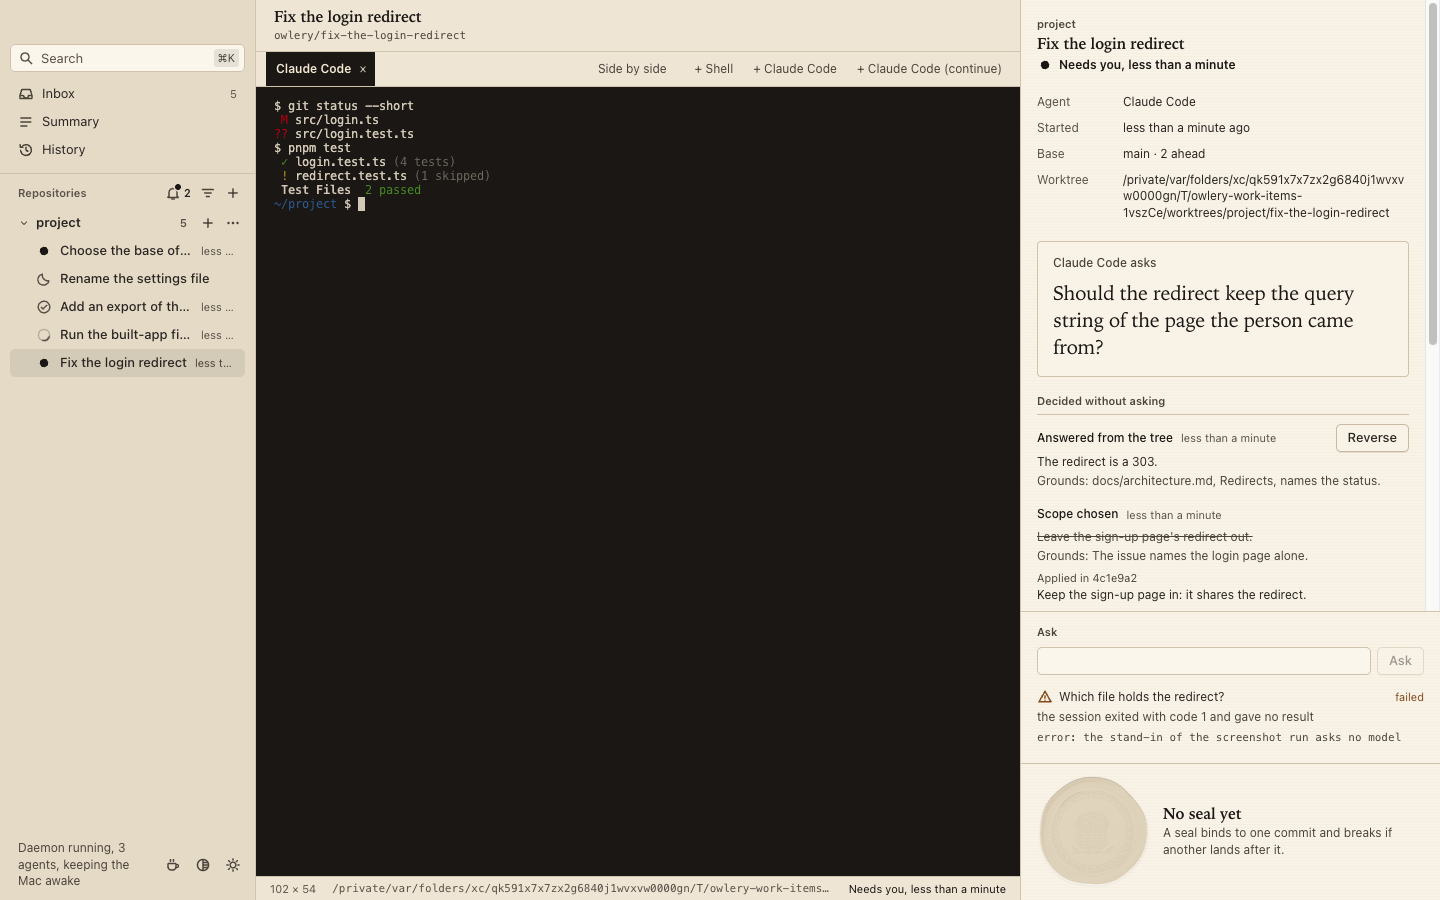
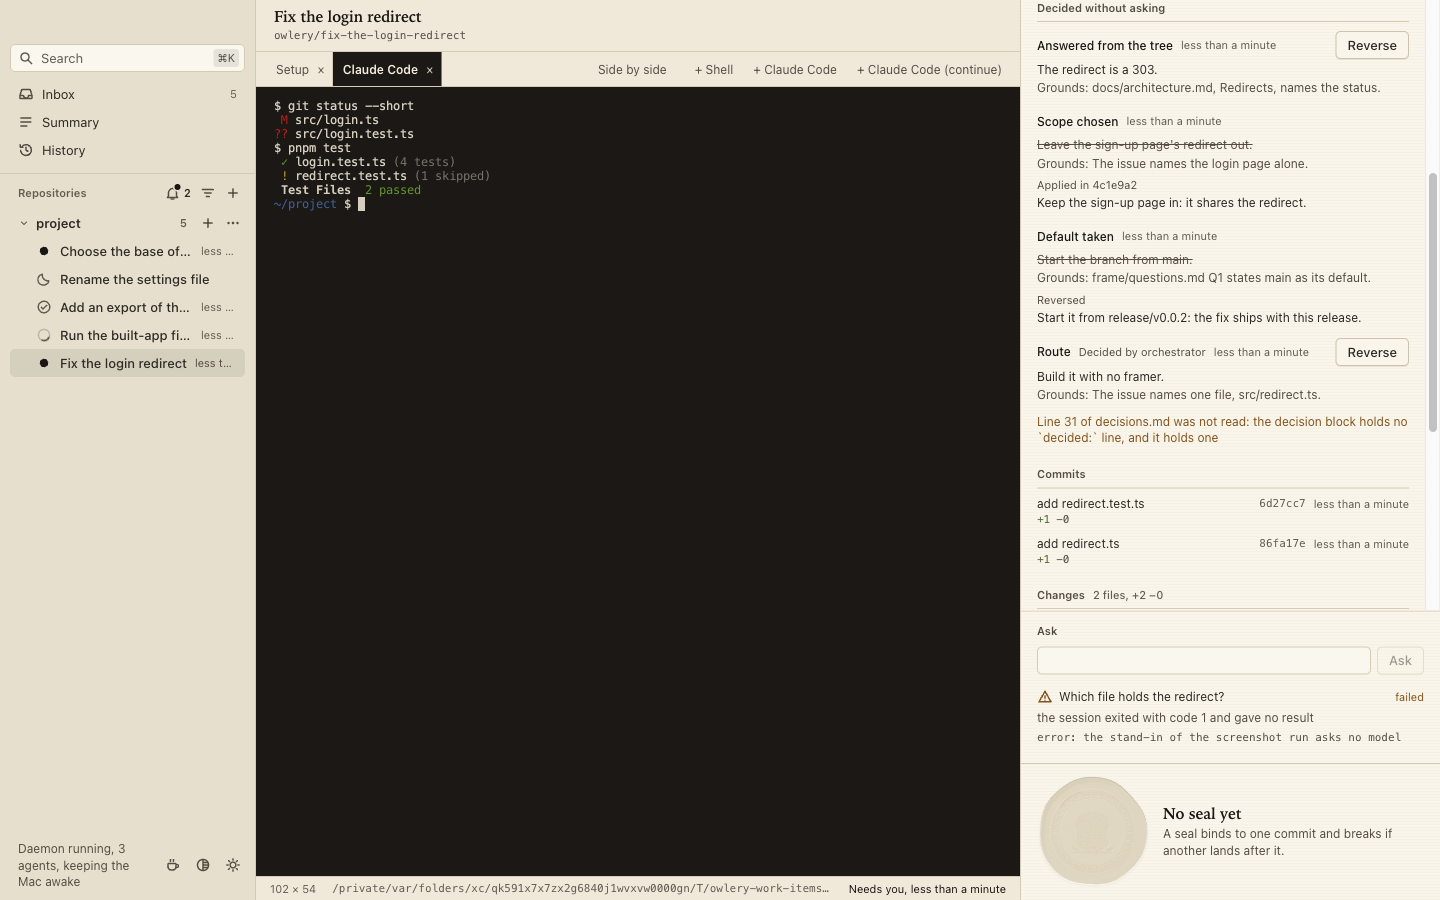
test: open the view's screenshot at the decisions made without asking, and make the screenshots of no question holds the run again
The base brought a "Setup" section into a work item's view, and the
run scrolled the side column to it, so the view's shot showed the setup
and the last line of the decisions alone. The view's shot now scrolls
the column until the decisions open what it shows, and the parked
view's shot returns the column to its top, where the questions stand.

The eighteen files of the work item are of this tree: the inbox, the
view and the parked view in each appearance of each theme.

Seal-Routing: 1795330500-no-question-holds-the-run

diff --git a/apps/desktop/test/screenshots.test.ts b/apps/desktop/test/screenshots.test.ts
@@ -10,10 +10,13 @@
 // asking and the questions are blocks the run writes into the two work
 // items' records, which the daemon reads in their worktrees. The repository
 // names a setup once three work items stand, so the one at work shows its
-// setup running, the one in the view shows its setup failed, with the paths
+// setup running, the one in the view has a setup that failed, with the paths
 // it copied and one it could not, and the form names the setup's command;
 // no setup's command runs, and the run types the code a setup pane ends
-// with. With
+// with. The side column of a view holds more than the window shows at once,
+// so the run scrolls it: the view's shot opens at the decisions made without
+// asking, with the "Setup" section below what it shows, and the parked
+// view's shot opens at the column's top, where its questions stand. With
 // `OWLERY_SCREENSHOT_THEMES` it captures other themes too: `all`, or names
 // with commas between them. It writes into `screenshots/<the run's start>`
 // under the app's folder, or into the folder `OWLERY_SCREENSHOT_DIR` names.
@@ -262,12 +265,14 @@ describe.skipIf(!RUN)("the screenshots of the built app", () => {
     view: async () => {
       await app.click(SIDEBAR_LINE);
       await app.until(`!document.getElementById("work-item-view").hidden && document.getElementById("view-title").textContent === ${JSON.stringify(SHOWN)} && document.querySelector("#stage .pane .xterm-scrollable-element") && document.querySelector("#view-detail section.setup")`, "the work item's view with its terminal and its setup");
-      // The "Setup" section stands below the commits and the changes, so the side column scrolls as far as it takes to show it whole.
-      await app.evaluate(`document.querySelector("#view-detail section.setup").scrollIntoView({ block: "nearest", behavior: "instant" })`);
+      // The decisions stand below what the agent asks, and the commits, the changes and the "Setup" section below them, so the side column scrolls until the decisions open what it shows.
+      await app.evaluate(`document.querySelector("#view-detail section.decisions").scrollIntoView({ block: "start", behavior: "instant" })`);
     },
     parked: async () => {
       await app.click(PARKED_LINE);
       await app.until(`!document.getElementById("work-item-view").hidden && document.getElementById("view-title").textContent === ${JSON.stringify(PARKED)} && !document.getElementById("questions").hidden && document.querySelectorAll("#questions fieldset[data-question]").length === ${QUESTIONS.length}`, "the parked work item's view with its questions");
+      // The questions stand first in the side column, which may still be where the view's shot scrolled it.
+      await app.evaluate(`document.getElementById("view-scroll").scrollTop = 0`);
     },
     menu: async () => {
       await show.inbox();
